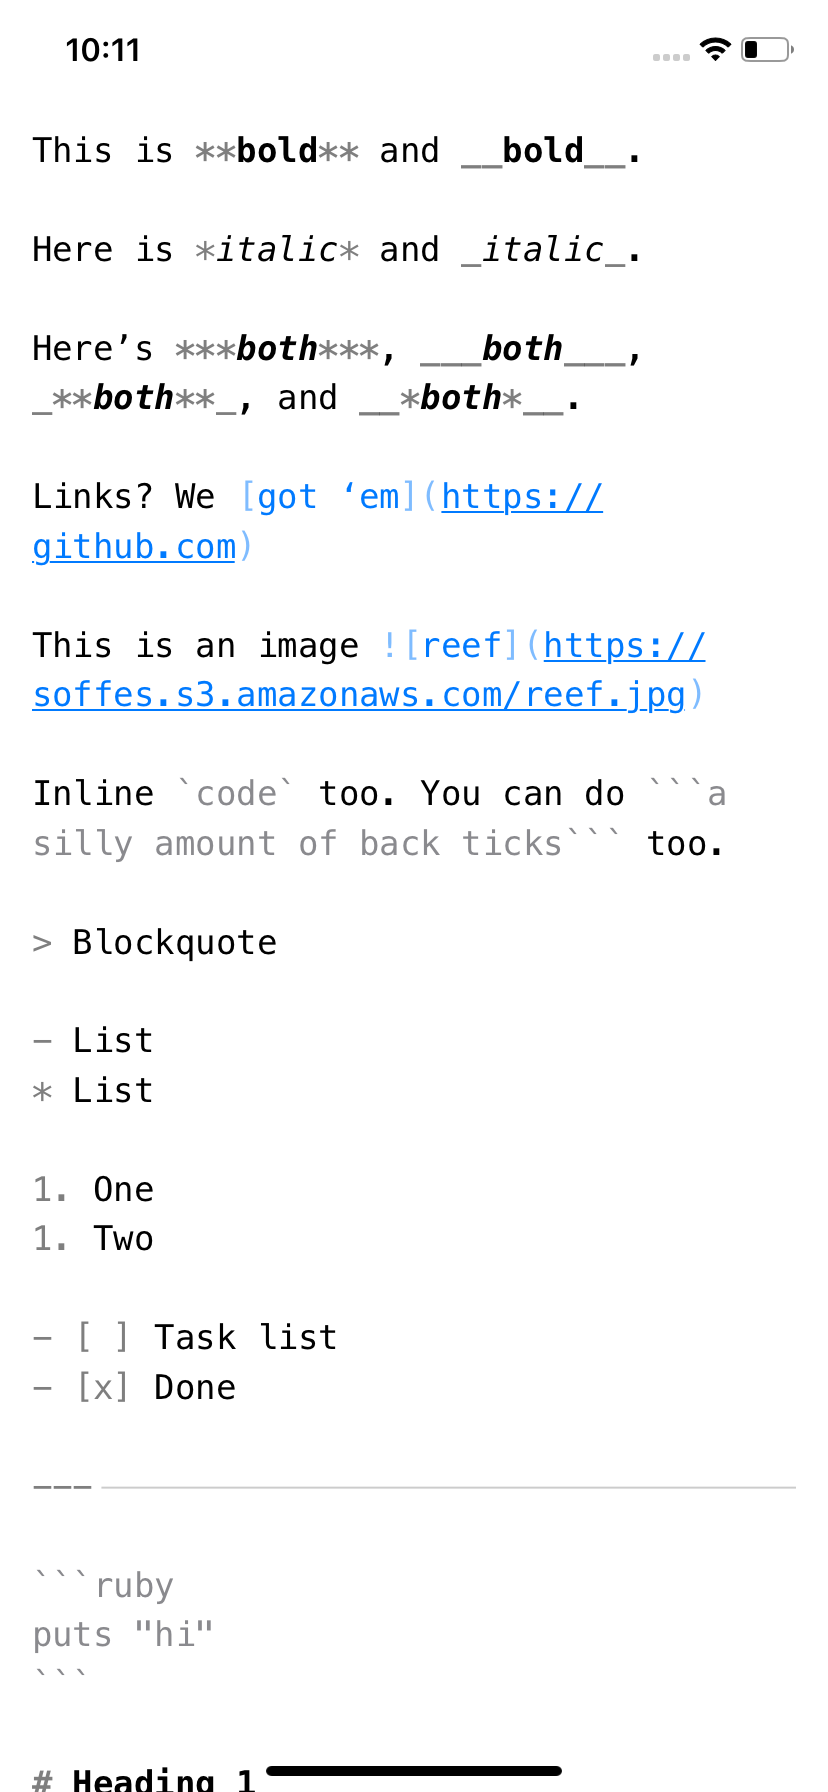
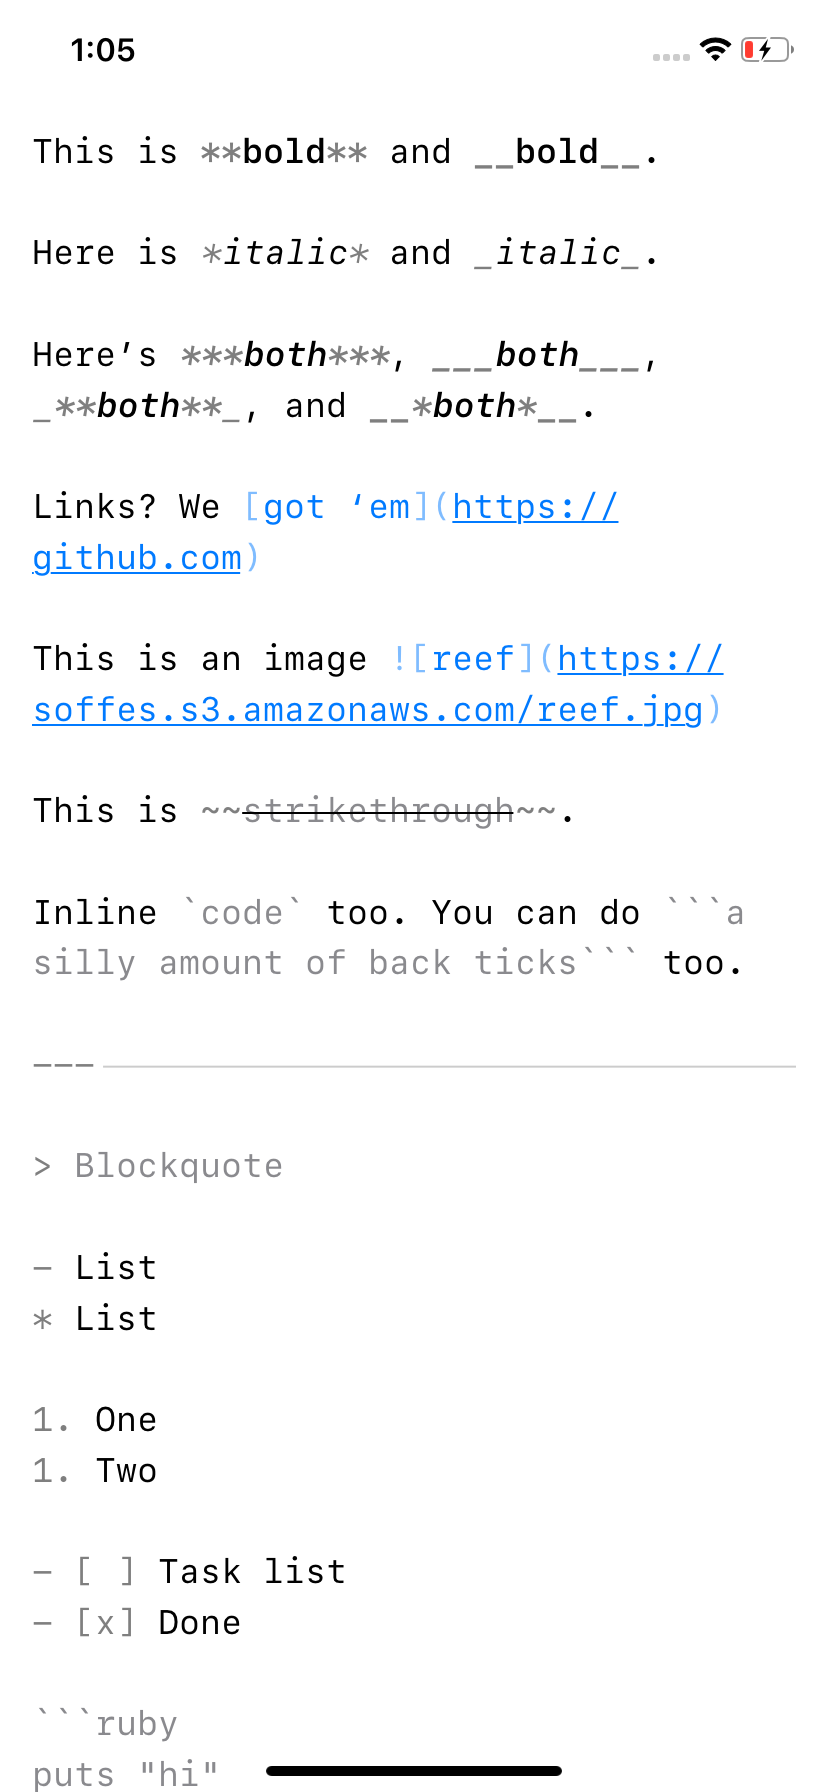
Update example text

diff --git a/Example/Sources/DemoViewController.swift b/Example/Sources/DemoViewController.swift
@@ -12,7 +12,11 @@ Links? We [got ‘em](https://github.com)
 
 This is an image ![reef](https://soffes.s3.amazonaws.com/reef.jpg)
 
+This is ~~strikethrough~~.
+
 Inline `code` too. You can do ```a silly amount of back ticks``` too.
+
+---
 
 > Blockquote
 
@@ -24,8 +28,6 @@ Inline `code` too. You can do ```a silly amount of back ticks``` too.
 
 - [ ] Task list
 - [x] Done
-
----
 
 ```ruby
 puts "hi"
